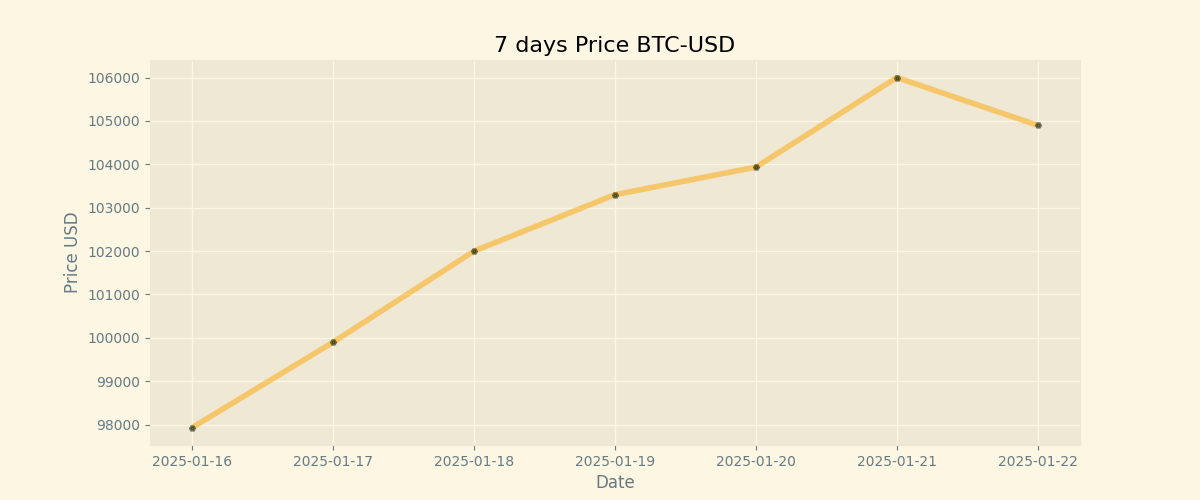
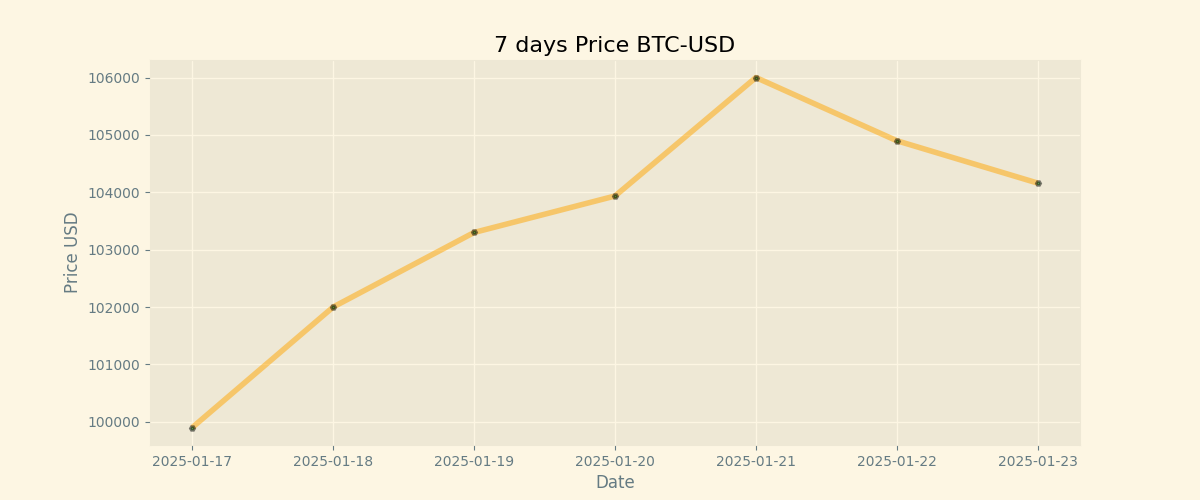
Duty Updates 2025-01-23

diff --git a/README.md b/README.md
@@ -9,8 +9,8 @@
 
 | Currency | Price           |
 | -------- | --------------- |
-| **BTC**  | **$ 104898.0** |
-| **ETH**  | **$ 3235.95** |
+| **BTC**  | **$ 104159.52** |
+| **ETH**  | **$ 3250.0** |
 
 ## BTC chart
 
